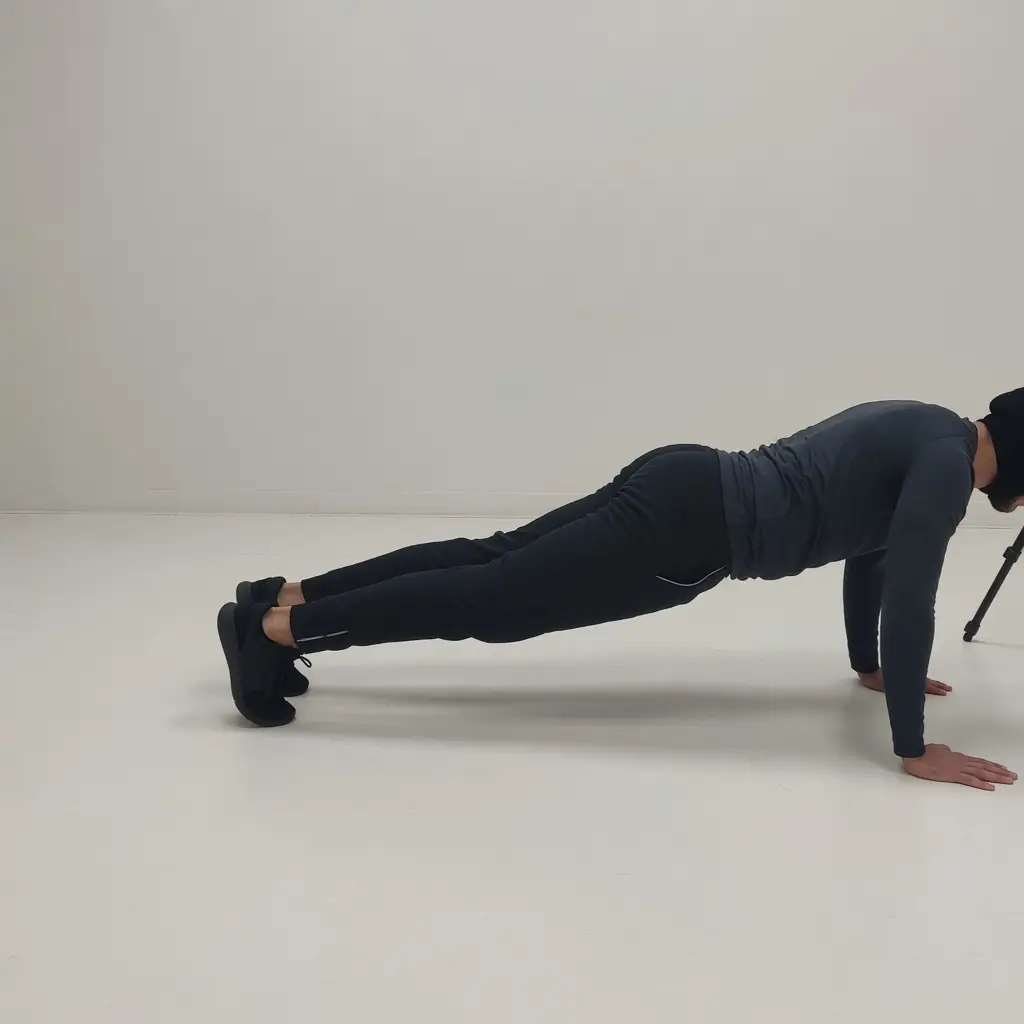
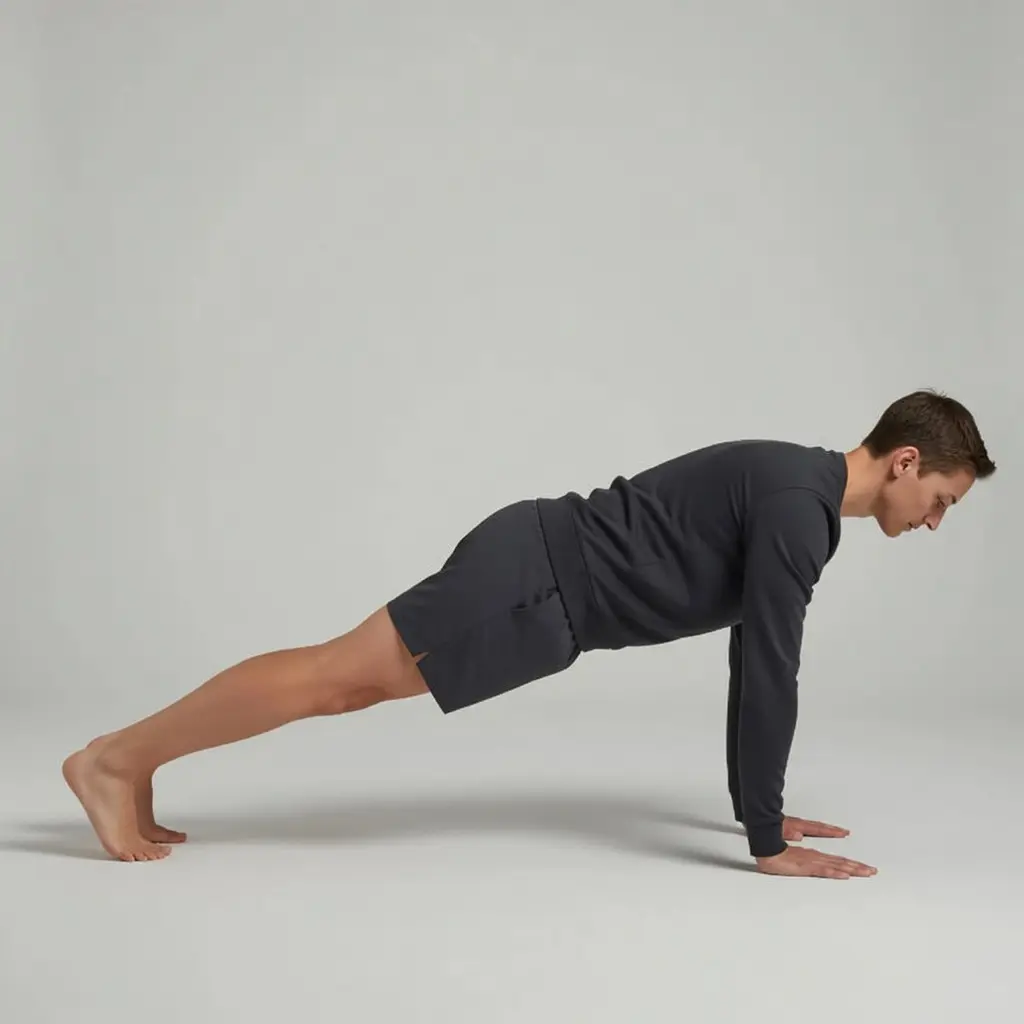
Form Director regen pass (.468)
Eyes-on regen with athlete-a lock: pattern-core plank, pattern-isolation curl,
glute-bridge bodyweight, burpees plank phase, box-jump landing — full headroom.
Prop kit sheets under media/form-kit/refs. Loops remain demoted until video QA.

Changed region(s): [[0.0, 0.0, 1.0, 0.875]]

diff --git a/src/lib/formPatterns.test.ts b/src/lib/formPatterns.test.ts
@@ -20,13 +20,13 @@ test('every pattern has legacy SVG; raster patterns resolve to form still', () =
       `missing pattern-${id}.svg`
     );
   }
-  // Wired raster patterns (quality-reset set)
-  for (const id of ['squat', 'hinge', 'push', 'pull', 'loco'] as const) {
+  for (const id of FORM_PATTERN_IDS) {
     assert.equal(formPatternPath(id), `/form/pattern-${id}/side.webp`);
+    assert.ok(
+      existsSync(path.join(root, 'public', 'form', `pattern-${id}`, 'side.webp')),
+      `missing form/pattern-${id}/side.webp`
+    );
   }
-  // Demoted patterns fall back to SVG until Form Director regen
-  assert.equal(formPatternPath('core'), '/form-guides/pattern-core.svg');
-  assert.equal(formPatternPath('isolation'), '/form-guides/pattern-isolation.svg');
 });
 
 test('inferFormPattern maps common families', () => {

diff --git a/src/lib/formMedia.test.ts b/src/lib/formMedia.test.ts
@@ -28,9 +28,9 @@ test('quality reset: no form pack videos wired', () => {
   assert.equal(pack?.mediaUrl, '/form/air-squat/side.webp');
 });
 
-test('demoted cropped stills fall back off form pack', () => {
-  assert.equal(resolveFormPackMedia('burpees'), null);
-  assert.equal(resolveFormPackMedia('box-jump'), null);
+test('Form Director regen re-wires burpees and box-jump stills', () => {
+  assert.equal(resolveFormPackMedia('burpees')?.mediaUrl, '/form/burpees/side.webp');
+  assert.equal(resolveFormPackMedia('box-jump')?.mediaUrl, '/form/box-jump/side.webp');
 });
 
 test('formPackSidePosterPath is stable', () => {

diff --git a/src/lib/formPatterns.ts b/src/lib/formPatterns.ts
@@ -42,7 +42,8 @@ export const FORM_PATTERN_RASTER_IDS = new Set<FormPatternId>([
   'push',
   'pull',
   'loco',
-  // 'core', 'isolation' — wait for Form Director regen
+  'core', // Form Director regen (.468) — forearm plank PASS
+  'isolation', // Form Director regen (.468) — standing DB curl PASS
 ]);
 
 /** Public path for a pattern diagram (raster preferred over legacy SVG). */

diff --git a/src/lib/formMedia.ts b/src/lib/formMedia.ts
@@ -23,7 +23,9 @@ export const FORM_PACK_SIDE_IDS = new Set([
   'lunges',
   'glute-bridge',
   'barbell-row',
-  // Demoted (.467): burpees, box-jump — head crop / hyper-tight frame
+  // Form Director regen (.468) — eyes-on PASS
+  'burpees',
+  'box-jump',
 ]);
 
 /**

diff --git a/src/lib/buildInfo.ts b/src/lib/buildInfo.ts
@@ -1,2 +1,2 @@
 /** Shown on Profile so testers can confirm the deployed build. Bump when shipping UI to master. */
-export const APP_BUILD_LABEL = '2026.07-unified.467';
+export const APP_BUILD_LABEL = '2026.07-unified.468';

diff --git a/LOG.md b/LOG.md
@@ -6,9 +6,15 @@ Chronological record of shipped work. Newest first.
 
 > **The `≤20KB` half of this rule was unmeetable and is retired.** An entry here averages ~5.6KB, because the house style is to explain the defect class rather than name the change — which is the most valuable thing in this repo and not something to trade away for a byte count. Fifteen entries is ~84KB; obeying 20KB would have meant keeping **three**. So the count rule stands, and the size rule becomes a **ratchet**: the file may shrink, never grow. If the founder wants a hard byte ceiling instead, that is a call about house style, not about this file.
 
-Archive: [2026-06 → 2026-07-20](docs/archive/log/LOG-2026-06_to_2026-07-20.md) · [2026-07-20 tail](docs/archive/log/LOG-2026-07-20_tail.md) (incl. Accelerator sprint kit rotated 2026-07-22) · [2026-07-20 → 2026-07-29 (`.179` and earlier)](docs/archive/log/LOG-2026-07-20_to_2026-07-29.md) · [2026-07-29 → 2026-07-30 (`.180`–`.199`)](docs/archive/log/LOG-2026-07-29_to_2026-07-30.md) (both rotated 2026-07-30) · [2026-07-30 → 2026-07-31 (`.200`–`.213`)](docs/archive/log/LOG-2026-07-30_to_2026-07-31.md) (rotated 2026-08-02) · [`.247` for `.263`](docs/archive/log/LOG-hero-audit-rotate-2026-08-03.md) · [`.279`](docs/archive/log/LOG-rotate-279.md) · [`.280`](docs/archive/log/LOG-rotate-280.md) · [`.281` for `.296`](docs/archive/log/LOG-rotate-296.md) · [`.282` for `.297`](docs/archive/log/LOG-rotate-297.md) · [`.283` for `.298`](docs/archive/log/LOG-rotate-298.md) · [`.284` for `.299`](docs/archive/log/LOG-rotate-299.md) · [`.285` for `.300`](docs/archive/log/LOG-rotate-300.md) · [`.286` for `.301`](docs/archive/log/LOG-rotate-301.md) · [`.287` for `.302`](docs/archive/log/LOG-rotate-302.md) · [`.288` for `.303`](docs/archive/log/LOG-rotate-303.md) · [`.289` for `.304`](docs/archive/log/LOG-rotate-304.md) · [`.290` for `.305`](docs/archive/log/LOG-rotate-305.md) · [`.291` for `.306`](docs/archive/log/LOG-rotate-306.md) · [`.292` for `.307`](docs/archive/log/LOG-rotate-307.md) · [`.293` for `.308`](docs/archive/log/LOG-rotate-308.md) · [`.294` for `.309`](docs/archive/log/LOG-rotate-309.md) · [`.295` for `.310`](docs/archive/log/LOG-rotate-310.md) · [`.296` for `.311`](docs/archive/log/LOG-rotate-311.md) · [`.297` for `.312`](docs/archive/log/LOG-rotate-312.md) · [`.298` for `.313`](docs/archive/log/LOG-rotate-313.md) · [`.299` for `.314`](docs/archive/log/LOG-rotate-314.md) · [`.300` for `.315`](docs/archive/log/LOG-rotate-315.md). · [`.301` for `.316`](docs/archive/log/LOG-rotate-316.md). · [`.302` for `.317`](docs/archive/log/LOG-rotate-317.md). · [`.303` for `.318`](docs/archive/log/LOG-rotate-318.md). · [`.304` for `.319`](docs/archive/log/LOG-rotate-319.md). · [`.305` for `.320`](docs/archive/log/LOG-rotate-320.md). · [`.306` for `.321`](docs/archive/log/LOG-rotate-321.md). · [`.307` for `.322`](docs/archive/log/LOG-rotate-322.md). · [`.308` for `.323`](docs/archive/log/LOG-rotate-323.md). · [`.309` for `.324`](docs/archive/log/LOG-rotate-324.md). · [`.310` for `.325`](docs/archive/log/LOG-rotate-325.md). · [`.311` for `.326`](docs/archive/log/LOG-rotate-326.md). · [`.312` for `.327`](docs/archive/log/LOG-rotate-327.md). · [`.313` for `.328`](docs/archive/log/LOG-rotate-328.md). · [`.314` for `.329`](docs/archive/log/LOG-rotate-329.md). · [`.315` for `.330`](docs/archive/log/LOG-rotate-330.md). · [`.316` for `.331`](docs/archive/log/LOG-rotate-331.md). · [`.317` for `.332`](docs/archive/log/LOG-rotate-332.md). · [`.318` for `.333`](docs/archive/log/LOG-rotate-333.md). · [`.319` for `.334`](docs/archive/log/LOG-rotate-334.md). · [`.320` for `.335`](docs/archive/log/LOG-rotate-335.md). · [`.321` for `.336`](docs/archive/log/LOG-rotate-336.md). · [`.322` for `.337`](docs/archive/log/LOG-rotate-337.md). · [`.323` for `.338`](docs/archive/log/LOG-rotate-338.md). · [`.324` for `.339`](docs/archive/log/LOG-rotate-339.md). · [`.325` for `.340`](docs/archive/log/LOG-rotate-340.md). · [`.326` for `.341`](docs/archive/log/LOG-rotate-341.md). · [`.327` for `.342`](docs/archive/log/LOG-rotate-342.md). · [`.328` for `.343`](docs/archive/log/LOG-rotate-343.md). · [`.329` for `.344`](docs/archive/log/LOG-rotate-344.md). · [`.330` for `.345`](docs/archive/log/LOG-rotate-345.md). · [`.331` for `.346`](docs/archive/log/LOG-rotate-346.md). · [`.332` for `.347`](docs/archive/log/LOG-rotate-347.md). · [`.333` for `.348`](docs/archive/log/LOG-rotate-348.md). · [`.334` for `.349`](docs/archive/log/LOG-rotate-349.md). · [`.335` for `.350`](docs/archive/log/LOG-rotate-350.md). · [`.336` for `.351`](docs/archive/log/LOG-rotate-351.md). · [`.337` for `.352`](docs/archive/log/LOG-rotate-352.md). · [`.338` for `.353`](docs/archive/log/LOG-rotate-353.md). · [`.339` for `.354`](docs/archive/log/LOG-rotate-354.md). · [`.340` for `.355`](docs/archive/log/LOG-rotate-355.md). · [`.341` for `.356`](docs/archive/log/LOG-rotate-356.md). · [`.342` for `.357`](docs/archive/log/LOG-rotate-357.md). · [`.343` for `.358`](docs/archive/log/LOG-rotate-358.md). · [`.344` for `.359`](docs/archive/log/LOG-rotate-359.md). · [`.345` for `.360`](docs/archive/log/LOG-rotate-360.md). · [`.346` for `.361`](docs/archive/log/LOG-rotate-361.md). · [`.347` for `.362`](docs/archive/log/LOG-rotate-362.md). · [`.348` for `.363`](docs/archive/log/LOG-rotate-363.md). · [`.349` for `.364`](docs/archive/log/LOG-rotate-364.md). · [`.350` for `.365`](docs/archive/log/LOG-rotate-365.md). · [`.351` for `.366`](docs/archive/log/LOG-rotate-366.md). · [`.352` for `.367`](docs/archive/log/LOG-rotate-367.md). · [`.353` for `.368`](docs/archive/log/LOG-rotate-368.md). · [`.354` for `.369`](docs/archive/log/LOG-rotate-369.md). · [`.355` for `.370`](docs/archive/log/LOG-rotate-370.md). · [`.356` for `.371`](docs/archive/log/LOG-rotate-371.md). · [`.357` for `.372`](docs/archive/log/LOG-rotate-372.md). · [`.358` for `.373`](docs/archive/log/LOG-rotate-373.md). · [`.359` for `.374`](docs/archive/log/LOG-rotate-374.md). · [`.360` for `.375`](docs/archive/log/LOG-rotate-375.md). · [`.361` for `.376`](docs/archive/log/LOG-rotate-376.md). · [`.362` for `.377`](docs/archive/log/LOG-rotate-377.md). · [`.363` for `.378`](docs/archive/log/LOG-rotate-378.md). · [`.364` for `.379`](docs/archive/log/LOG-rotate-379.md). · [`.365` for `.380`](docs/archive/log/LOG-rotate-380.md). · [`.366` for `.381`](docs/archive/log/LOG-rotate-381.md). · [`.367` for `.382`](docs/archive/log/LOG-rotate-382.md). · [`.368` for `.383`](docs/archive/log/LOG-rotate-383.md). · [`.369` for `.384`](docs/archive/log/LOG-rotate-384.md). · [`.370` for `.385`](docs/archive/log/LOG-rotate-385.md). · [`.371` for `.386`](docs/archive/log/LOG-rotate-386.md). · [`.372` for `.387`](docs/archive/log/LOG-rotate-387.md). · [`.373` for `.388`](docs/archive/log/LOG-rotate-388.md). · [`.374` for `.389`](docs/archive/log/LOG-rotate-389.md). · [`.375` for `.390`](docs/archive/log/LOG-rotate-390.md). · [`.376` for `.391`](docs/archive/log/LOG-rotate-391.md). · [`.377` for `.392`](docs/archive/log/LOG-rotate-392.md). · [`.378` for `.393`](docs/archive/log/LOG-rotate-393.md). · [`.379` for `.394`](docs/archive/log/LOG-rotate-394.md). · [`.380` for `.395`](docs/archive/log/LOG-rotate-395.md). · [`.381` for `.396`](docs/archive/log/LOG-rotate-396.md). · [`.382` for `.397`](docs/archive/log/LOG-rotate-397.md). · [`.383` for `.398`](docs/archive/log/LOG-rotate-398.md). · [`.384` for `.399`](docs/archive/log/LOG-rotate-399.md). · [`.385` for `.400`](docs/archive/log/LOG-rotate-400.md). · [`.386` for `.401`](docs/archive/log/LOG-rotate-401.md). · [`.387` for `.402`](docs/archive/log/LOG-rotate-402.md). · [`.388` for `.403`](docs/archive/log/LOG-rotate-403.md). · [`.389` for `.404`](docs/archive/log/LOG-rotate-404.md). · [`.390` for `.405`](docs/archive/log/LOG-rotate-405.md). · [`.391` for `.406`](docs/archive/log/LOG-rotate-406.md). · [`.392` for `.407`](docs/archive/log/LOG-rotate-407.md). · [`.393` for `.408`](docs/archive/log/LOG-rotate-408.md). · [`.394` for `.409`](docs/archive/log/LOG-rotate-409.md). · [`.395` for `.410`](docs/archive/log/LOG-rotate-410.md). · [`.396` for `.411`](docs/archive/log/LOG-rotate-411.md). · [`.397` for `.412`](docs/archive/log/LOG-rotate-412.md). · [`.398` for `.413`](docs/archive/log/LOG-rotate-413.md). · [`.399` for `.414`](docs/archive/log/LOG-rotate-414.md). · [`.400` for `.415`](docs/archive/log/LOG-rotate-415.md). · [`.401` for `.416`](docs/archive/log/LOG-rotate-416.md). · [`.402` for `.417`](docs/archive/log/LOG-rotate-417.md). · [`.403` for `.418`](docs/archive/log/LOG-rotate-418.md). · [`.404` for `.419`](docs/archive/log/LOG-rotate-419.md). · [`.405` for `.420`](docs/archive/log/LOG-rotate-420.md). · [`.406` for `.421`](docs/archive/log/LOG-rotate-421.md). · [`.407` for `.422`](docs/archive/log/LOG-rotate-422.md). · [`.408` for `.423`](docs/archive/log/LOG-rotate-423.md). · [`.409` for `.424`](docs/archive/log/LOG-rotate-424.md). · [`.410` for `.425`](docs/archive/log/LOG-rotate-425.md). · [`.411` for `.426`](docs/archive/log/LOG-rotate-426.md). · [`.412` for `.427`](docs/archive/log/LOG-rotate-427.md). · [`.413` for `.428`](docs/archive/log/LOG-rotate-428.md). · [`.414` for `.429`](docs/archive/log/LOG-rotate-429.md). · [`.415` for `.430`](docs/archive/log/LOG-rotate-430.md). · [`.416` for `.431`](docs/archive/log/LOG-rotate-431.md). · [`.417` for `.432`](docs/archive/log/LOG-rotate-432.md). · [`.418` for `.433`](docs/archive/log/LOG-rotate-433.md). · [`.419` for `.434`](docs/archive/log/LOG-rotate-434.md). · [`.420` for `.435`](docs/archive/log/LOG-rotate-435.md). · [`.421` for `.436`](docs/archive/log/LOG-rotate-436.md). · [`.422` for `.437`](docs/archive/log/LOG-rotate-437.md). · [`.423` for `.438`](docs/archive/log/LOG-rotate-438.md). · [`.424` for `.439`](docs/archive/log/LOG-rotate-439.md). · [`.425` for `.440`](docs/archive/log/LOG-rotate-440.md). · [`.426` for `.441`](docs/archive/log/LOG-rotate-441.md). · [`.427` for `.442`](docs/archive/log/LOG-rotate-442.md). · [`.428` for `.443`](docs/archive/log/LOG-rotate-443.md). · [`.429` for `.444`](docs/archive/log/LOG-rotate-444.md). · [`.430` for `.445`](docs/archive/log/LOG-rotate-445.md). · [`.431` for `.446`](docs/archive/log/LOG-rotate-446.md). · [`.432` for `.447`](docs/archive/log/LOG-rotate-447.md). · [`.433` for `.448`](docs/archive/log/LOG-rotate-448.md). · [`.434` for `.449`](docs/archive/log/LOG-rotate-449.md). · [`.435` for `.450`](docs/archive/log/LOG-rotate-450.md). · [`.436` for `.451`](docs/archive/log/LOG-rotate-451.md). · [`.437` for `.452`](docs/archive/log/LOG-rotate-452.md). · [`.438` for `.453`](docs/archive/log/LOG-rotate-453.md). · [`.439` for `.454`](docs/archive/log/LOG-rotate-454.md). · [`.440` for `.455`](docs/archive/log/LOG-rotate-455.md). · [`.441` for `.456`](docs/archive/log/LOG-rotate-456.md). · [`.442` for `.457`](docs/archive/log/LOG-rotate-457.md). · [`.443` for `.458`](docs/archive/log/LOG-rotate-458.md). · [`.444` for `.459`](docs/archive/log/LOG-rotate-459.md). · [`.445` for `.460`](docs/archive/log/LOG-rotate-460.md). · [`.446` for `.461`](docs/archive/log/LOG-rotate-461.md). · [`.447` for `.462`](docs/archive/log/LOG-rotate-462.md). · [`.448` for `.463`](docs/archive/log/LOG-rotate-463.md). · [`.449` for `.464`](docs/archive/log/LOG-rotate-464.md). · [`.450` for `.465`](docs/archive/log/LOG-rotate-465.md). · [`.451` for `.466`](docs/archive/log/LOG-rotate-466.md). · [`.452` for `.467`](docs/archive/log/LOG-rotate-467.md).
+Archive: [2026-06 → 2026-07-20](docs/archive/log/LOG-2026-06_to_2026-07-20.md) · [2026-07-20 tail](docs/archive/log/LOG-2026-07-20_tail.md) (incl. Accelerator sprint kit rotated 2026-07-22) · [2026-07-20 → 2026-07-29 (`.179` and earlier)](docs/archive/log/LOG-2026-07-20_to_2026-07-29.md) · [2026-07-29 → 2026-07-30 (`.180`–`.199`)](docs/archive/log/LOG-2026-07-29_to_2026-07-30.md) (both rotated 2026-07-30) · [2026-07-30 → 2026-07-31 (`.200`–`.213`)](docs/archive/log/LOG-2026-07-30_to_2026-07-31.md) (rotated 2026-08-02) · [`.247` for `.263`](docs/archive/log/LOG-hero-audit-rotate-2026-08-03.md) · [`.279`](docs/archive/log/LOG-rotate-279.md) · [`.280`](docs/archive/log/LOG-rotate-280.md) · [`.281` for `.296`](docs/archive/log/LOG-rotate-296.md) · [`.282` for `.297`](docs/archive/log/LOG-rotate-297.md) · [`.283` for `.298`](docs/archive/log/LOG-rotate-298.md) · [`.284` for `.299`](docs/archive/log/LOG-rotate-299.md) · [`.285` for `.300`](docs/archive/log/LOG-rotate-300.md) · [`.286` for `.301`](docs/archive/log/LOG-rotate-301.md) · [`.287` for `.302`](docs/archive/log/LOG-rotate-302.md) · [`.288` for `.303`](docs/archive/log/LOG-rotate-303.md) · [`.289` for `.304`](docs/archive/log/LOG-rotate-304.md) · [`.290` for `.305`](docs/archive/log/LOG-rotate-305.md) · [`.291` for `.306`](docs/archive/log/LOG-rotate-306.md) · [`.292` for `.307`](docs/archive/log/LOG-rotate-307.md) · [`.293` for `.308`](docs/archive/log/LOG-rotate-308.md) · [`.294` for `.309`](docs/archive/log/LOG-rotate-309.md) · [`.295` for `.310`](docs/archive/log/LOG-rotate-310.md) · [`.296` for `.311`](docs/archive/log/LOG-rotate-311.md) · [`.297` for `.312`](docs/archive/log/LOG-rotate-312.md) · [`.298` for `.313`](docs/archive/log/LOG-rotate-313.md) · [`.299` for `.314`](docs/archive/log/LOG-rotate-314.md) · [`.300` for `.315`](docs/archive/log/LOG-rotate-315.md). · [`.301` for `.316`](docs/archive/log/LOG-rotate-316.md). · [`.302` for `.317`](docs/archive/log/LOG-rotate-317.md). · [`.303` for `.318`](docs/archive/log/LOG-rotate-318.md). · [`.304` for `.319`](docs/archive/log/LOG-rotate-319.md). · [`.305` for `.320`](docs/archive/log/LOG-rotate-320.md). · [`.306` for `.321`](docs/archive/log/LOG-rotate-321.md). · [`.307` for `.322`](docs/archive/log/LOG-rotate-322.md). · [`.308` for `.323`](docs/archive/log/LOG-rotate-323.md). · [`.309` for `.324`](docs/archive/log/LOG-rotate-324.md). · [`.310` for `.325`](docs/archive/log/LOG-rotate-325.md). · [`.311` for `.326`](docs/archive/log/LOG-rotate-326.md). · [`.312` for `.327`](docs/archive/log/LOG-rotate-327.md). · [`.313` for `.328`](docs/archive/log/LOG-rotate-328.md). · [`.314` for `.329`](docs/archive/log/LOG-rotate-329.md). · [`.315` for `.330`](docs/archive/log/LOG-rotate-330.md). · [`.316` for `.331`](docs/archive/log/LOG-rotate-331.md). · [`.317` for `.332`](docs/archive/log/LOG-rotate-332.md). · [`.318` for `.333`](docs/archive/log/LOG-rotate-333.md). · [`.319` for `.334`](docs/archive/log/LOG-rotate-334.md). · [`.320` for `.335`](docs/archive/log/LOG-rotate-335.md). · [`.321` for `.336`](docs/archive/log/LOG-rotate-336.md). · [`.322` for `.337`](docs/archive/log/LOG-rotate-337.md). · [`.323` for `.338`](docs/archive/log/LOG-rotate-338.md). · [`.324` for `.339`](docs/archive/log/LOG-rotate-339.md). · [`.325` for `.340`](docs/archive/log/LOG-rotate-340.md). · [`.326` for `.341`](docs/archive/log/LOG-rotate-341.md). · [`.327` for `.342`](docs/archive/log/LOG-rotate-342.md). · [`.328` for `.343`](docs/archive/log/LOG-rotate-343.md). · [`.329` for `.344`](docs/archive/log/LOG-rotate-344.md). · [`.330` for `.345`](docs/archive/log/LOG-rotate-345.md). · [`.331` for `.346`](docs/archive/log/LOG-rotate-346.md). · [`.332` for `.347`](docs/archive/log/LOG-rotate-347.md). · [`.333` for `.348`](docs/archive/log/LOG-rotate-348.md). · [`.334` for `.349`](docs/archive/log/LOG-rotate-349.md). · [`.335` for `.350`](docs/archive/log/LOG-rotate-350.md). · [`.336` for `.351`](docs/archive/log/LOG-rotate-351.md). · [`.337` for `.352`](docs/archive/log/LOG-rotate-352.md). · [`.338` for `.353`](docs/archive/log/LOG-rotate-353.md). · [`.339` for `.354`](docs/archive/log/LOG-rotate-354.md). · [`.340` for `.355`](docs/archive/log/LOG-rotate-355.md). · [`.341` for `.356`](docs/archive/log/LOG-rotate-356.md). · [`.342` for `.357`](docs/archive/log/LOG-rotate-357.md). · [`.343` for `.358`](docs/archive/log/LOG-rotate-358.md). · [`.344` for `.359`](docs/archive/log/LOG-rotate-359.md). · [`.345` for `.360`](docs/archive/log/LOG-rotate-360.md). · [`.346` for `.361`](docs/archive/log/LOG-rotate-361.md). · [`.347` for `.362`](docs/archive/log/LOG-rotate-362.md). · [`.348` for `.363`](docs/archive/log/LOG-rotate-363.md). · [`.349` for `.364`](docs/archive/log/LOG-rotate-364.md). · [`.350` for `.365`](docs/archive/log/LOG-rotate-365.md). · [`.351` for `.366`](docs/archive/log/LOG-rotate-366.md). · [`.352` for `.367`](docs/archive/log/LOG-rotate-367.md). · [`.353` for `.368`](docs/archive/log/LOG-rotate-368.md). · [`.354` for `.369`](docs/archive/log/LOG-rotate-369.md). · [`.355` for `.370`](docs/archive/log/LOG-rotate-370.md). · [`.356` for `.371`](docs/archive/log/LOG-rotate-371.md). · [`.357` for `.372`](docs/archive/log/LOG-rotate-372.md). · [`.358` for `.373`](docs/archive/log/LOG-rotate-373.md). · [`.359` for `.374`](docs/archive/log/LOG-rotate-374.md). · [`.360` for `.375`](docs/archive/log/LOG-rotate-375.md). · [`.361` for `.376`](docs/archive/log/LOG-rotate-376.md). · [`.362` for `.377`](docs/archive/log/LOG-rotate-377.md). · [`.363` for `.378`](docs/archive/log/LOG-rotate-378.md). · [`.364` for `.379`](docs/archive/log/LOG-rotate-379.md). · [`.365` for `.380`](docs/archive/log/LOG-rotate-380.md). · [`.366` for `.381`](docs/archive/log/LOG-rotate-381.md). · [`.367` for `.382`](docs/archive/log/LOG-rotate-382.md). · [`.368` for `.383`](docs/archive/log/LOG-rotate-383.md). · [`.369` for `.384`](docs/archive/log/LOG-rotate-384.md). · [`.370` for `.385`](docs/archive/log/LOG-rotate-385.md). · [`.371` for `.386`](docs/archive/log/LOG-rotate-386.md). · [`.372` for `.387`](docs/archive/log/LOG-rotate-387.md). · [`.373` for `.388`](docs/archive/log/LOG-rotate-388.md). · [`.374` for `.389`](docs/archive/log/LOG-rotate-389.md). · [`.375` for `.390`](docs/archive/log/LOG-rotate-390.md). · [`.376` for `.391`](docs/archive/log/LOG-rotate-391.md). · [`.377` for `.392`](docs/archive/log/LOG-rotate-392.md). · [`.378` for `.393`](docs/archive/log/LOG-rotate-393.md). · [`.379` for `.394`](docs/archive/log/LOG-rotate-394.md). · [`.380` for `.395`](docs/archive/log/LOG-rotate-395.md). · [`.381` for `.396`](docs/archive/log/LOG-rotate-396.md). · [`.382` for `.397`](docs/archive/log/LOG-rotate-397.md). · [`.383` for `.398`](docs/archive/log/LOG-rotate-398.md). · [`.384` for `.399`](docs/archive/log/LOG-rotate-399.md). · [`.385` for `.400`](docs/archive/log/LOG-rotate-400.md). · [`.386` for `.401`](docs/archive/log/LOG-rotate-401.md). · [`.387` for `.402`](docs/archive/log/LOG-rotate-402.md). · [`.388` for `.403`](docs/archive/log/LOG-rotate-403.md). · [`.389` for `.404`](docs/archive/log/LOG-rotate-404.md). · [`.390` for `.405`](docs/archive/log/LOG-rotate-405.md). · [`.391` for `.406`](docs/archive/log/LOG-rotate-406.md). · [`.392` for `.407`](docs/archive/log/LOG-rotate-407.md). · [`.393` for `.408`](docs/archive/log/LOG-rotate-408.md). · [`.394` for `.409`](docs/archive/log/LOG-rotate-409.md). · [`.395` for `.410`](docs/archive/log/LOG-rotate-410.md). · [`.396` for `.411`](docs/archive/log/LOG-rotate-411.md). · [`.397` for `.412`](docs/archive/log/LOG-rotate-412.md). · [`.398` for `.413`](docs/archive/log/LOG-rotate-413.md). · [`.399` for `.414`](docs/archive/log/LOG-rotate-414.md). · [`.400` for `.415`](docs/archive/log/LOG-rotate-415.md). · [`.401` for `.416`](docs/archive/log/LOG-rotate-416.md). · [`.402` for `.417`](docs/archive/log/LOG-rotate-417.md). · [`.403` for `.418`](docs/archive/log/LOG-rotate-418.md). · [`.404` for `.419`](docs/archive/log/LOG-rotate-419.md). · [`.405` for `.420`](docs/archive/log/LOG-rotate-420.md). · [`.406` for `.421`](docs/archive/log/LOG-rotate-421.md). · [`.407` for `.422`](docs/archive/log/LOG-rotate-422.md). · [`.408` for `.423`](docs/archive/log/LOG-rotate-423.md). · [`.409` for `.424`](docs/archive/log/LOG-rotate-424.md). · [`.410` for `.425`](docs/archive/log/LOG-rotate-425.md). · [`.411` for `.426`](docs/archive/log/LOG-rotate-426.md). · [`.412` for `.427`](docs/archive/log/LOG-rotate-427.md). · [`.413` for `.428`](docs/archive/log/LOG-rotate-428.md). · [`.414` for `.429`](docs/archive/log/LOG-rotate-429.md). · [`.415` for `.430`](docs/archive/log/LOG-rotate-430.md). · [`.416` for `.431`](docs/archive/log/LOG-rotate-431.md). · [`.417` for `.432`](docs/archive/log/LOG-rotate-432.md). · [`.418` for `.433`](docs/archive/log/LOG-rotate-433.md). · [`.419` for `.434`](docs/archive/log/LOG-rotate-434.md). · [`.420` for `.435`](docs/archive/log/LOG-rotate-435.md). · [`.421` for `.436`](docs/archive/log/LOG-rotate-436.md). · [`.422` for `.437`](docs/archive/log/LOG-rotate-437.md). · [`.423` for `.438`](docs/archive/log/LOG-rotate-438.md). · [`.424` for `.439`](docs/archive/log/LOG-rotate-439.md). · [`.425` for `.440`](docs/archive/log/LOG-rotate-440.md). · [`.426` for `.441`](docs/archive/log/LOG-rotate-441.md). · [`.427` for `.442`](docs/archive/log/LOG-rotate-442.md). · [`.428` for `.443`](docs/archive/log/LOG-rotate-443.md). · [`.429` for `.444`](docs/archive/log/LOG-rotate-444.md). · [`.430` for `.445`](docs/archive/log/LOG-rotate-445.md). · [`.431` for `.446`](docs/archive/log/LOG-rotate-446.md). · [`.432` for `.447`](docs/archive/log/LOG-rotate-447.md). · [`.433` for `.448`](docs/archive/log/LOG-rotate-448.md). · [`.434` for `.449`](docs/archive/log/LOG-rotate-449.md). · [`.435` for `.450`](docs/archive/log/LOG-rotate-450.md). · [`.436` for `.451`](docs/archive/log/LOG-rotate-451.md). · [`.437` for `.452`](docs/archive/log/LOG-rotate-452.md). · [`.438` for `.453`](docs/archive/log/LOG-rotate-453.md). · [`.439` for `.454`](docs/archive/log/LOG-rotate-454.md). · [`.440` for `.455`](docs/archive/log/LOG-rotate-455.md). · [`.441` for `.456`](docs/archive/log/LOG-rotate-456.md). · [`.442` for `.457`](docs/archive/log/LOG-rotate-457.md). · [`.443` for `.458`](docs/archive/log/LOG-rotate-458.md). · [`.444` for `.459`](docs/archive/log/LOG-rotate-459.md). · [`.445` for `.460`](docs/archive/log/LOG-rotate-460.md). · [`.446` for `.461`](docs/archive/log/LOG-rotate-461.md). · [`.447` for `.462`](docs/archive/log/LOG-rotate-462.md). · [`.448` for `.463`](docs/archive/log/LOG-rotate-463.md). · [`.449` for `.464`](docs/archive/log/LOG-rotate-464.md). · [`.450` for `.465`](docs/archive/log/LOG-rotate-465.md). · [`.451` for `.466`](docs/archive/log/LOG-rotate-466.md). · [`.452` for `.467`](docs/archive/log/LOG-rotate-467.md). · [`.453` for `.468`](docs/archive/log/LOG-rotate-468.md).
 
 ---
+
+## 2026-08-04 — Form Director regen pass (`.468`)
+
+Eyes-on Form Director regen: pattern-core (forearm plank), pattern-isolation (DB curl), glute-bridge (bodyweight), burpees + box-jump (full headroom). Prop kit sheets + athlete-a ref under `media/form-kit/refs/`. Loops stay demoted. Soft prompts still retired.
+
+Mutants: re-wire isolation to old side-plank webp → FAIL log contradiction; empty VIDEO_IDS → still-only green.
 
 ## 2026-08-04 — Form Director quality reset (`.467`)
 
@@ -93,10 +99,4 @@ Mutants: re-clone bicep-curl to pattern-isolation geometry → uniqueness red; z
 CI typecheck: `units: 'metric'` + NextSetTarget `reason` on next-target mocks; `MuscleGroup[]` on Active inline/sheets add callbacks. Unblocks merge of #254.
 
 Mutants: units stay `'kg'` → tsc red; suggest mock omit reason → tsc red.
-
-## 2026-08-04 — Coach chat stream reader peel (`.453`)
-
-`readCoachChatStream` + `isCoachChatAbortError` leave `CoachChatPanel`. Fetch stays in the panel; SSE loop + abort detection are one-home with unit + wiring guards. Panel 287→281.
-
-Mutants: re-inline getReader on the panel → wiring red; drop AbortError name check → unit red.
 

diff --git a/CONTEXT.md b/CONTEXT.md
@@ -16,7 +16,7 @@ One screen of truth for any AI tool or human joining cold. Read this, then [AGEN
 
 ---
 
-## Now (2026-08-04 · web `2026.07-unified.467` · Android `1.24.1`)
+## Now (2026-08-04 · web `2026.07-unified.468` · Android `1.24.1`)
 
 > The ONLY "where we are" block in the repo — [ORCHESTRATION.md](ORCHESTRATION.md) points here.
 >
@@ -226,6 +226,7 @@ One screen of truth for any AI tool or human joining cold. Read this, then [AGEN
 > and `.465` dropped `.450` detail (full text remains in LOG.md / archive)
 > and `.466` dropped `.451` detail (full text remains in LOG.md / archive)
 > and `.467` dropped `.452` detail (full text remains in LOG.md / archive)
+> and `.468` dropped `.453` detail (full text remains in LOG.md / archive)
 > to [CONTEXT-now-2026-07-30.md](docs/archive/CONTEXT-now-2026-07-30.md) after this
 > block reached **79 bullets / 103KB**. A status doc that only grows stops being read.
 
@@ -246,19 +247,14 @@ One screen of truth for any AI tool or human joining cold. Read this, then [AGEN
 > | Migrations | **9 recorded pending** — [LAUNCH_RUNBOOK](docs/LAUNCH_RUNBOOK.md) §3, enforced by `src/lib/migrationLedger.test.ts`. |
 > | gitleaks | **green — and scanning for the first time.** It had never scanned anything: on a `pull_request` event the action lists the PR's commits, the job declared no `permissions:` block, and it 403'd (`pull_requests=read`) before opening a file. Fixed by a `permissions:` block (`.224` carrying `.255`). It scans **only the PR's own commits**, so commit `8ea3527a`'s real Solana treasury address — scrubbed from the working file, still in history — is out of its scope. That finding stands, deliberately not allowlisted; it was never what made this check red. |
 
-- **`.467`:** Form Director quality reset — demote glitchy loops/crops; Seedance-class prompt system.
-- **`.466`:** Form Index — 16 loops + 7 pattern stills (then demoted loops).
-- **`.465`:** Form Index — 8 loops + 8 wave-2 stills.
-- **`.464`:** Form Index pilot stills — 8 clinical side posters.
-- **`.463`:** Sprint A Imagine stills — invite / coach / Scout.
-- **`.462`:** Grok Imagine assemble pack — Sprint A prompts.
-- **`.461`:** Library multi-select session studio — Train selected (max 12).
-- **`.460`:** Public Train this free CTA + craft index coverage truth.
-- **`.459`:** Structured form guides 66→82 + coverage ratchet.
-- **`.458`:** Craft blurbs + 15 structured form guides (51→66 coverage).
-- **`.457`:** Public craft-index library — pattern cards + form-first detail.
-- **`.456`:** Hero form mid-phase motion — CSS-in-SVG bob on 16 lifts.
-- **`.455`:** Hand-tuned form stick figures — poses.mjs + SVG regen.
+- **`.468`:** Form Director regen — core/isolation/glute/burpees/box-jump PASS; prop kit.
+- **`.467`:** Form Director quality reset — demote glitchy loops/crops; prompt system.
+- **`.466`:** Form Index bulk loops/patterns (later demoted).
+- **`.465`–`.464`:** Form Index pilot stills/loops.
+- **`.463`–`.462`:** Sprint A Imagine social + prompt pack.
+- **`.461`:** Library multi-select session studio.
+- **`.460`:** Public Train this free CTA + craft coverage.
+- **`.459`–`.455`:** Form guides craft expansion + stick motion.
 - **Horizon W — wedge excellence.** Web craft 1–6 + **Fuel estimate accuracy** (edit-before-log, better NL match, honest photo sources).
 - **Free-first beta (~4 weeks):** LLC + EIN pending — **no Bundle UI** + **full depth unlocked** + **full More nav** (journey train-only deferred) ([docs/FREE_BETA.md](docs/FREE_BETA.md)).
 - **`e2e:visual` is the one dark gate.** Its three baselines were generated **2026-07-22, before the rebrand**, and depicted the old navy/emerald dark design — black grounds, emerald CTAs, rounded corners. Verified by opening one, not inferred from dates. **Deleted**, because a known-wrong baseline is worse than none: the first Linux run would have shown four huge diffs, and the reflex there is `--update-snapshots` without looking, which launders whatever renders that day into truth. `home-reduced.png` **never had a baseline at all**, so the homepage has been silently self-approving since the case was written. **First Linux CI run after billing clears must bootstrap all four** (`npx playwright test --grep @visual --update-snapshots`, then commit the artifact) — it cannot be done on macOS, the pixels will not match.

diff --git a/media/form-kit/qa/FAIL.md b/media/form-kit/qa/FAIL.md
@@ -16,3 +16,17 @@ Log every rejected generation. Do not re-ship the same glitch.
 - Soft two-line prompts caused wrong patterns and crops.  
 - Batch rename by generation order mis-mapped pattern assets.  
 - Always vision-read before optimize/commit.
+
+## PASS log (Form Director regen)
+
+| Date | Asset | Notes |
+|------|--------|--------|
+| 2026-08-04 | `pattern-core/side.webp` | Forearm plank, full head/feet, athlete-a identity (.468) |
+| 2026-08-04 | `pattern-isolation/side.webp` | Standing DB curl mid, full body (.468) |
+| 2026-08-04 | `glute-bridge/side.webp` | Bodyweight top, no bar (.468) |
+| 2026-08-04 | `burpees/side.webp` | High-plank phase, head in frame (.468) |
+| 2026-08-04 | `box-jump/side.webp` | Landing on box, full headroom (.468) |
+| 2026-08-04 | `refs/athlete-a-side` | Kit identity |
+| 2026-08-04 | `refs/prop-*` | Barbell, KB, box, bench sheets |
+
+Loops still demoted globally until per-lift video QA.

diff --git a/docs/archive/INDEX.md b/docs/archive/INDEX.md
@@ -65,6 +65,7 @@ When adding a doc:
 | [log/LOG-rotate-414.md](./log/LOG-rotate-414.md) | `.399` FileUploadRow chrome — rotated for `.414` form media T1 |
 | [log/LOG-rotate-415.md](./log/LOG-rotate-415.md) | `.400` opacity exemptions — rotated for `.415` pattern packs |
 | [log/LOG-rotate-416.md](./log/LOG-rotate-416.md) | `.401` beachhead i18n — rotated for `.416` Scout + PDF |
+| [log/LOG-rotate-468.md](./log/LOG-rotate-468.md) | `.453` — rotated for `.468` (Form Director regen PASS). |
 | [log/LOG-rotate-467.md](./log/LOG-rotate-467.md) | `.452` — rotated for `.467` (Form Director quality reset). |
 | [log/LOG-rotate-466.md](./log/LOG-rotate-466.md) | `.451` — rotated for `.466` (full loops + pattern stills). |
 | [log/LOG-rotate-465.md](./log/LOG-rotate-465.md) | `.450` — rotated for `.465` (Form Index loops + wave-2). |

diff --git a/docs/archive/log/LOG-rotate-468.md b/docs/archive/log/LOG-rotate-468.md
@@ -1,0 +1,5 @@
+## 2026-08-04 — Coach chat stream reader peel (`.453`)
+
+`readCoachChatStream` + `isCoachChatAbortError` leave `CoachChatPanel`. Fetch stays in the panel; SSE loop + abort detection are one-home with unit + wiring guards. Panel 287→281.
+
+Mutants: re-inline getReader on the panel → wiring red; drop AbortError name check → unit red.
